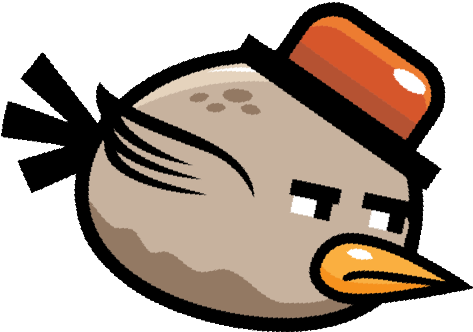
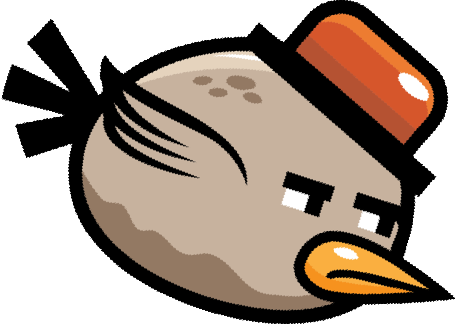
update

diff --git a/src/FlappyBird/Control/Bird.java b/src/FlappyBird/Control/Bird.java
@@ -1,6 +1,5 @@
 package FlappyBird.Control;
 
-import FlappyBird.Game;
 import FlappyBird.Util.Util;
 
 import java.awt.*;
@@ -23,55 +22,46 @@ public class Bird {
 
     public void setStatus(int status) {
         this.status = status;
-        if(status == 0)
-        {
-          cnt = 1;
-        }
-        else
-        {
-            cnt = -1;
-        }
+        if(status == 0) cnt = 1; else cnt = -1;
     }
 
     public Bird(){
+        Reset();
+    }
+    public void Reset(){
         status = 0;
         coutFrameUp = 0;
         cnt = 1;
         index = 0;
+        img = new BufferedImage[birdFlyWelcome.length];
+        for(int i = 0; i < img.length; i++)
+            img[i] = Util.loadBufferedImage(birdFlyWelcome[i]);
+        x = frameWidth / 20;
+        y = frameHeight / 2;
+    }
+
+    public void setImg() {
         img = new BufferedImage[BIRD_PATH[birdType].length];
         for(int i = 0; i < img.length; i++)
             img[i] = Util.loadBufferedImage(BIRD_PATH[birdType][i]);
-        x = frameWidth / 20;
-        y = frameHeight / 2;
     }
-    public void Reset()
-    {
-        status = 0;
-        coutFrameUp = 0;
-        cnt = 1;
-        index = 0;
-        x = frameWidth / 20;
-        y = frameHeight / 2;
-    }
+
     public void draw(Graphics g){
-        if(status== 1)
-        {drawUp(g);}
-        else if(status == 0)
-        {drawDown(g);}
-        else if (status == 2)
-        {
-            DrawDie(g);
-        }
-
-
+        if(status== 1) drawUp(g);
+            else
+                if(status == 0) drawDown(g);
+                    else
+                        if (status == 2) drawDie(g);
     }
-    public void DrawDie(Graphics g)
+
+    public void drawDie(Graphics g)
     {
-        g.drawImage(img[img.length -1], x, y, birdWidth, birdHeight, null);
+        g.drawImage(img[img.length-1], x, y, birdWidth, birdHeight, null);
     }
-    public  void DrawWelcome(Graphics g)
+
+    public  void drawWelcome(Graphics g)
     {
-        g.drawImage(img[index+= cnt], x, y, birdWidth, birdHeight, null);
+        g.drawImage(img[index+=cnt], x, y, birdWidth, birdHeight, null);
         if(index == 9)cnt = -1;
         if(index == 0)cnt = 1;
     }
@@ -87,8 +77,6 @@ public class Bird {
         { setStatus(0);
             coutFrameUp = 0;
         }
-
-
     }
     public void drawDown(Graphics g){
         if(index + 1 < img.length)
@@ -117,16 +105,16 @@ public class Bird {
         return  false;
     }
     public boolean CheckEatCoin(PipeControl o){
-        if(o.getPipes().isEmpty())return false;
         for(Pipe p : o.getPipes()) {
             Coin c = p.getCoin();
             if(!c.isAppear())continue;
-            if(c.getX() <= x + birdSize && x + birdSize <= c.getX() + birdSize * 3 / 2
-                && ((c.getY() <= y && y <= c.getY() + birdSize * 3 / 2)
-                    || (c.getY() <= y + birdSize && y + birdSize <= c.getY() + birdSize * 3 / 2))){
+            if(c.getX() <= x + birdWidth && x + birdWidth <= c.getX() + birdSize * 3 / 2
+                && ((c.getY() <= y && y <= c.getY() + birdHeight * 3 / 2)
+                    || (c.getY() <= y + birdHeight && y + birdHeight <= c.getY() + birdSize * 3 / 2))){
                 c.setAppear(false);
                 return true;
             }
+            break;
         }
         return false;
     }

diff --git a/src/FlappyBird/Util/Constant.java b/src/FlappyBird/Util/Constant.java
@@ -62,19 +62,23 @@ public class Constant {
     public static final String SPACE = "src/resources/space.png";
 
     // BIRD_PATH[i][0] = up, [i][9] = dead, size = 10
-    public static final String[][] BIRD_PATH = {{"src/resources/bird0/up.png","src/resources/bird0/down_0.png","src/resources/bird0/down_1.png"
+    public static final String[][]BIRD_PATH = {
+            {"src/resources/bird0/up.png","src/resources/bird3/down_0.png","src/resources/bird0/down_1.png"
             ,"src/resources/bird0/down_2.png","src/resources/bird0/down_3.png","src/resources/bird0/down_4.png"
             ,"src/resources/bird0/down_5.png","src/resources/bird0/down_6.png","src/resources/bird0/down_7.png"
-            ,"src/resources/bird0/dead.png"}, {"src/resources/bird3/Up.png", "src/resources/bird3/down_1.png", "src/resources/bird3/down_2.png"
-            ,"src/resources/bird3/down_3.png","src/resources/bird3/down_4.png","src/resources/bird3/down_5.png",
-            "src/resources/bird3/down_6.png","src/resources/bird3/down_7.png","src/resources/bird3/down_8.png","src/resources/bird3/down_9.png"
-            },{"src/resources/bird1/bird.up.png","src/resources/bird1/bird.1.png","src/resources/bird1/bird.2.png","src/resources/bird1/bird.3.png"
-            ,"src/resources/bird1/bird.4.png","src/resources/bird1/bird.5.png","src/resources/bird1/bird.6.png"
-            ,"src/resources/bird1/bird.7.png","src/resources/bird1/bird.8.png","src/resources/bird1/bird.dead.png"
-            },{"src/resources/bird2/up.png","src/resources/bird2/down_1.png","src/resources/bird2/down_2.png","src/resources/bird2/down_3.png"
-            ,"src/resources/bird2/down_4.png","src/resources/bird2/down_5.png","src/resources/bird2/down_6.png"
-            ,"src/resources/bird2/down_7.png","src/resources/bird2/down_8.png","src/resources/bird2/dead.png"
-    }
+            ,"src/resources/bird0/dead.png"},
+            {"src/resources/bird3/up.png","src/resources/bird3/down_0.png","src/resources/bird3/down_1.png"
+                    ,"src/resources/bird3/down_2.png","src/resources/bird3/down_3.png","src/resources/bird3/down_4.png"
+                    ,"src/resources/bird3/down_5.png","src/resources/bird3/down_6.png","src/resources/bird3/down_7.png"
+                    ,"src/resources/bird3/dead.png"},
+            {"src/resources/bird1/up.png","src/resources/bird1/down_0.png","src/resources/bird1/down_1.png"
+                    ,"src/resources/bird1/down_2.png","src/resources/bird1/down_3.png","src/resources/bird1/down_4.png"
+                    ,"src/resources/bird1/down_5.png","src/resources/bird1/down_6.png","src/resources/bird1/down_7.png"
+                    ,"src/resources/bird1/dead.png"},
+            {"src/resources/bird2/up.png","src/resources/bird2/down_0.png","src/resources/bird2/down_1.png"
+                    ,"src/resources/bird2/down_2.png","src/resources/bird2/down_3.png","src/resources/bird2/down_4.png"
+                    ,"src/resources/bird2/down_5.png","src/resources/bird2/down_6.png","src/resources/bird2/down_7.png"
+                    ,"src/resources/bird2/dead.png"}
     };
     // pipe
     public static final String PIPE_PATH = "src/resources/wood.png";

diff --git a/src/FlappyBird/Game.java b/src/FlappyBird/Game.java
@@ -88,7 +88,7 @@ public class Game extends Frame implements KeyListener {
         cloudControl.draw(bufG);
         if(gameState == welcomeState){
             welcome.draw(bufG);
-            bird.DrawWelcome(bufG);
+            bird.drawWelcome(bufG);
             if(buttonChoose == buttonThree)
             {
                 score.drawScoreBoard(bufG);
@@ -110,11 +110,9 @@ public class Game extends Frame implements KeyListener {
 
         if(gameState == gameOverState){
             System.out.println("Game Over");
-            gameState = welcomeState;
-            bird.Reset();
         }
-        bufG.setColor(Color.RED);
-        bufG.drawLine(0,400,frameWidth, 400);
+//        bufG.setColor(Color.RED);
+//        bufG.drawLine(0,400,frameWidth, 400);
 
 
         g.drawImage(bufImg, 0, 0, null);
@@ -155,6 +153,7 @@ public class Game extends Frame implements KeyListener {
                     }
                 }
                 if(e.getKeyCode()  == KeyEvent.VK_SPACE && buttonChoose == buttonTwo){
+                    bird.setImg();
                     setGameState(playGameState);
                 }
                 break;
@@ -167,6 +166,9 @@ public class Game extends Frame implements KeyListener {
                 break;
             case gameOverState:
                 if(e.getKeyCode()  == KeyEvent.VK_SPACE){
+                    gameState = welcomeState;
+                    bird.Reset();
+                    pipeControl.init();
                 }
                 break;
         }

diff --git a/src/FlappyBird/Control/Coin.java b/src/FlappyBird/Control/Coin.java
@@ -29,7 +29,7 @@ public class Coin {
     }
 
     public void setAppear(boolean appear) {
-        this.appear = false;
+        this.appear = appear;
     }
 
     public boolean isAppear() {
@@ -47,7 +47,7 @@ public class Coin {
         BufferedImage dest = img.getSubimage((cnt / 2) * img.getWidth() / 6, 0, img.getWidth() / 6, img.getHeight());
         if(appear)
             g.drawImage(dest, x, y, birdSize * 3 / 2, birdSize * 3 / 2, null);
-        g.drawRect(x, y, birdSize * 3 / 2, birdSize * 3 / 2);
+//        g.drawRect(x, y, birdSize * 3 / 2, birdSize * 3 / 2);
     }
 
     public int getX() {

diff --git a/src/FlappyBird/Control/Pipe.java b/src/FlappyBird/Control/Pipe.java
@@ -20,7 +20,6 @@ public class Pipe {
     }
 
     public void update(Graphics g){
-        if(Xlocation == 0 )Xlocation = frameWidth;
         Xlocation -= SPEED;
         pipeUp.setXYlocation(Xlocation, Ylocation - heightPipe);
         pipeDown.setXYlocation(Xlocation, Ylocation + 3 * birdSize);

diff --git a/src/FlappyBird/Control/PipeControl.java b/src/FlappyBird/Control/PipeControl.java
@@ -20,6 +20,7 @@ public class PipeControl {
         }
     }
     public void init(){
+        pipes.clear();
         Pipe p = new Pipe(100);
         pipes.add(p);
     }
